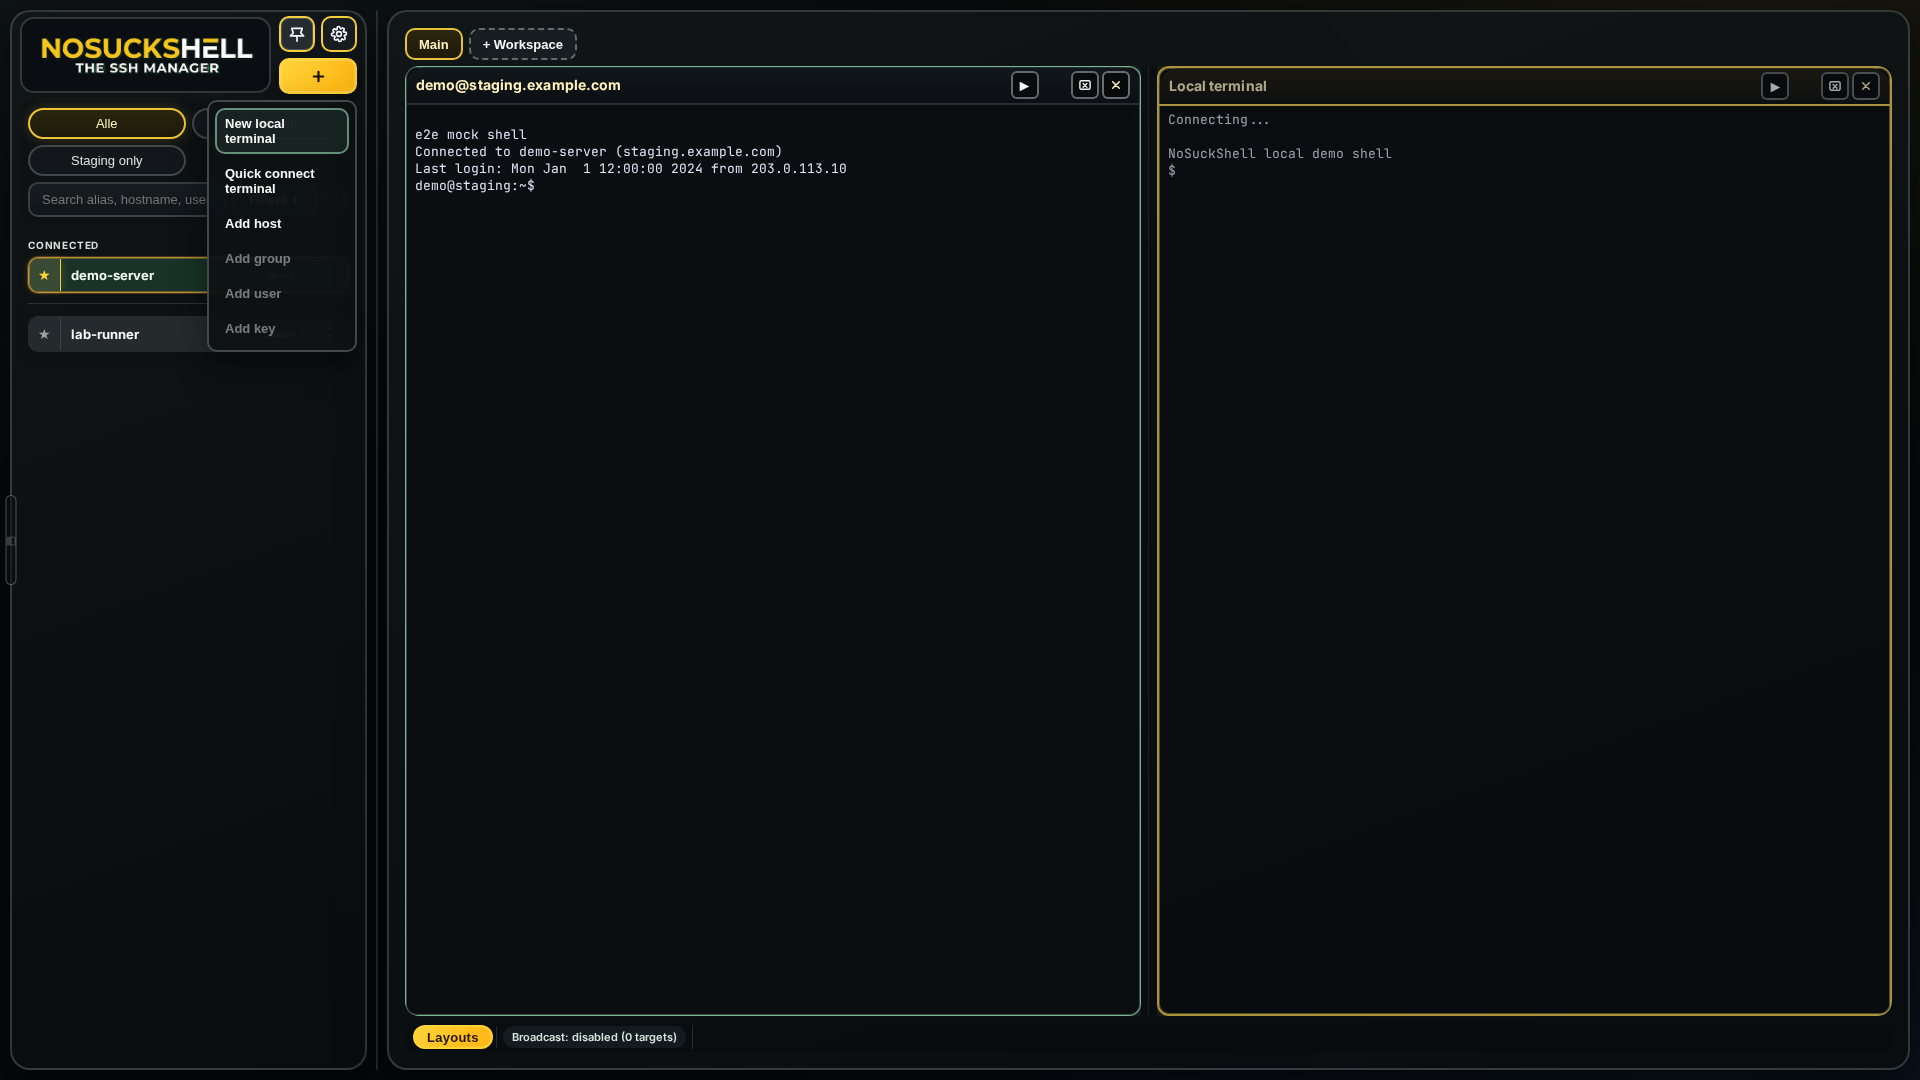
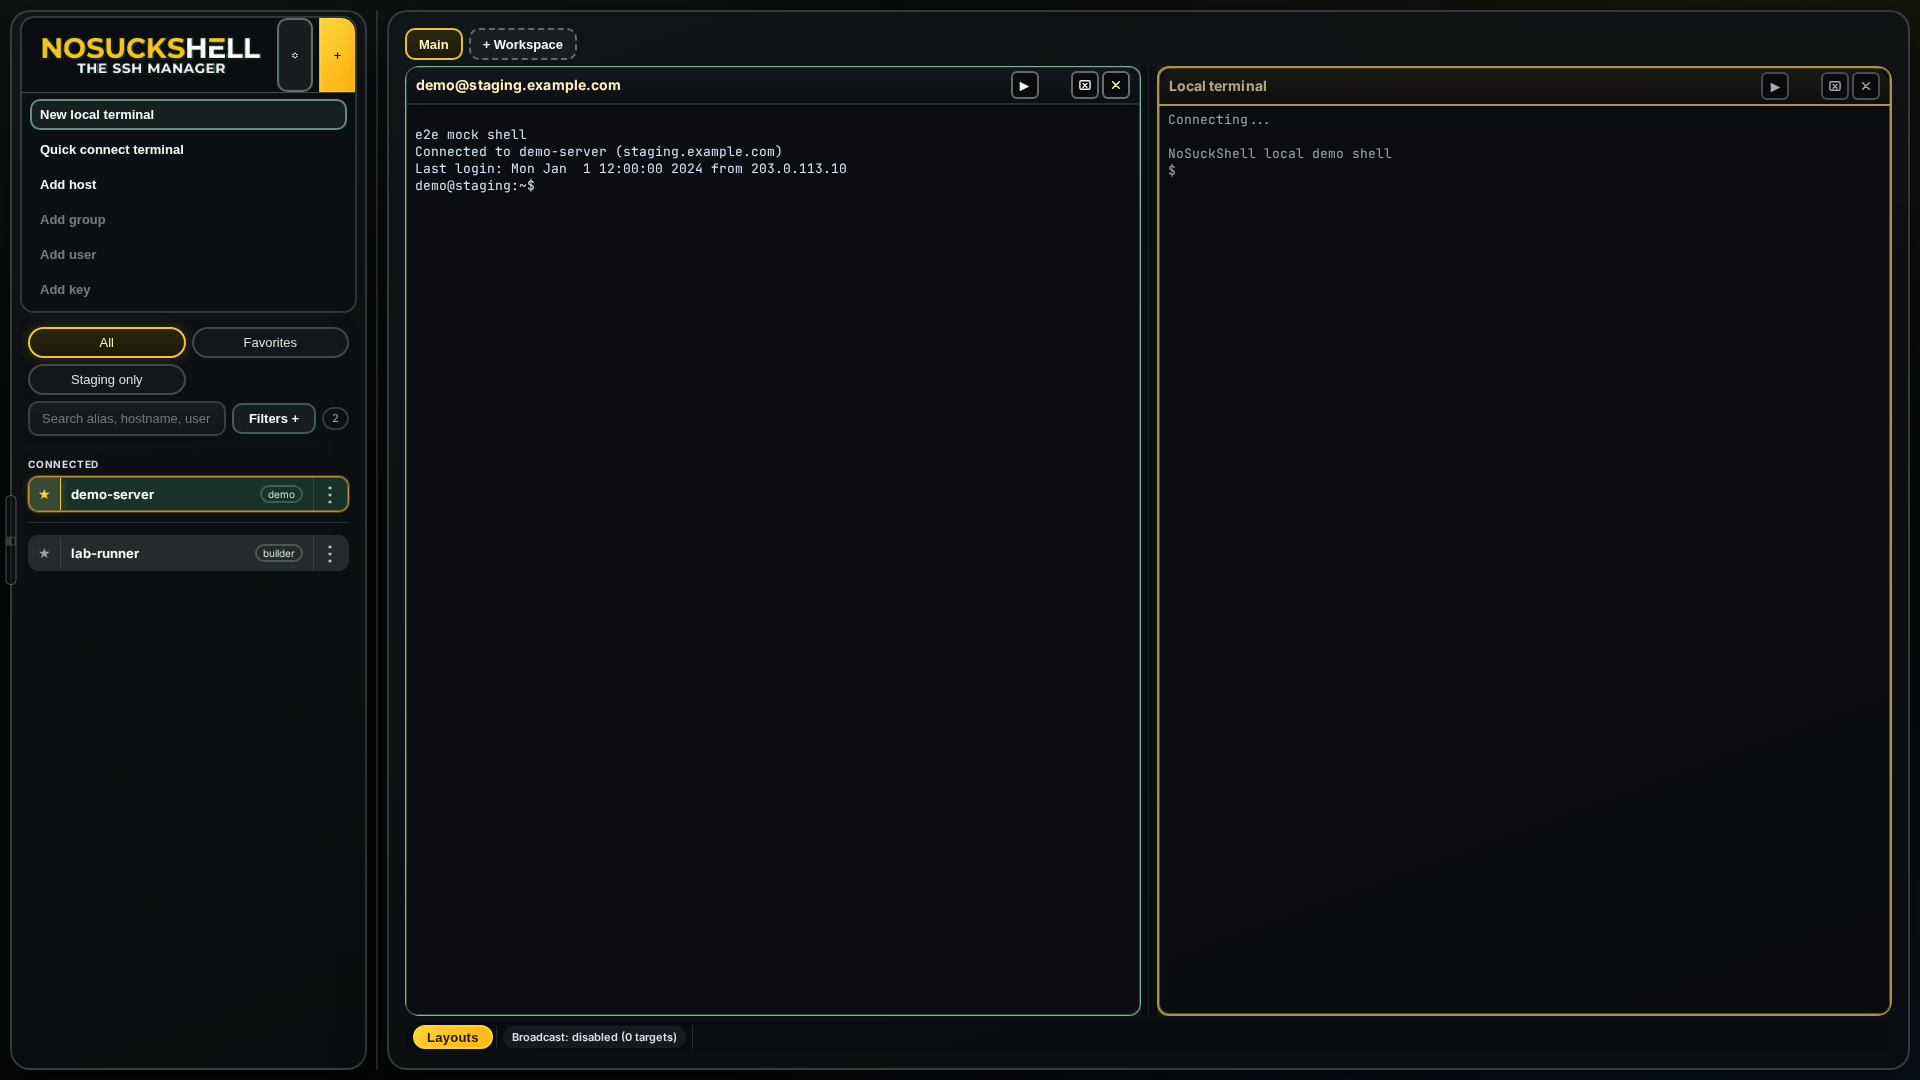
refactor: update app settings button and layout structure
- Replaced the quick add button with an app settings button in the toolbar.
- Introduced a new layout structure for the brand toolbar, enhancing the organization of buttons.
- Updated styles for the new button and layout to improve visual consistency and user experience.

Changed region(s): [[0.0, 0.0, 0.1875, 0.3972], [0.0, 0.4278, 0.1875, 0.55]]

diff --git a/apps/desktop/src/App.tsx b/apps/desktop/src/App.tsx
@@ -4412,17 +4412,33 @@ export function App() {
               <img src={logoTextTransparent} alt="NoSuckShell logo" className="brand-logo" />
             </div>
             <div className="brand-add-column">
-              <div className="quick-add-wrap brand-quick-add-wrap brand-primary-add-wrap">
+              <div className="brand-primary-add-wrap brand-toolbar-cluster">
                 <button
-                  className="btn host-plus-btn"
-                  aria-label="Open add menu"
-                  title="Add host"
-                  onClick={() => setIsQuickAddMenuOpen((prev) => !prev)}
+                  type="button"
+                  className="btn brand-app-settings-btn"
+                  aria-label="Open app settings"
+                  title="App settings"
+                  onClick={() => setIsAppSettingsOpen(true)}
                 >
                   <svg className="add-icon-svg" viewBox="0 0 24 24" aria-hidden="true">
-                    <path d="M12 6v12M6 12h12" />
+                    <path
+                      fill="currentColor"
+                      d="M12 15.5A3.5 3.5 0 0 1 8.5 12 3.5 3.5 0 0 1 12 8.5a3.5 3.5 0 0 1 3.5 3.5 3.5 3.5 0 0 1-3.5 3.5m7.43-2.53c.04-.32.07-.64.07-.97s-.03-.66-.07-1l2.11-1.63c.19-.15.24-.42.12-.64l-2-3.46c-.12-.22-.39-.31-.61-.22l-2.49 1c-.52-.39-1.06-.72-1.68-.97l-.38-2.65A.51.51 0 0 0 14 2h-4c-.25 0-.46.18-.49.42l-.38 2.65c-.61.25-1.17.58-1.68.97l-2.49-1c-.23-.09-.49 0-.61.22l-2 3.46c-.13.22-.07.49.12.64l2.11 1.63c-.04.34-.07.67-.07.98s.03.66.07.97l-2.11 1.63c-.19.15-.24.42-.12.64l2 3.46c.12.22.39.3.61.22l2.49-1.01c.52.4 1.06.74 1.68.97l.38 2.65c.03.24.24.43.5.43h4c.25 0 .46-.18.49-.42l.38-2.65c.62-.24 1.16-.57 1.68-.97l2.49 1c.22.08.49 0 .61-.22l2-3.46c.12-.22.07-.49-.12-.64l-2.11-1.63z"
+                    />
                   </svg>
                 </button>
+                <div className="quick-add-wrap brand-quick-add-wrap brand-primary-add-inner">
+                  <button
+                    className="btn host-plus-btn"
+                    aria-label="Open add menu"
+                    title="Add host"
+                    onClick={() => setIsQuickAddMenuOpen((prev) => !prev)}
+                  >
+                    <svg className="add-icon-svg" viewBox="0 0 24 24" aria-hidden="true">
+                      <path d="M12 6v12M6 12h12" />
+                    </svg>
+                  </button>
+                </div>
               </div>
             </div>
             {isQuickAddMenuOpen && (

diff --git a/apps/desktop/src/styles.css b/apps/desktop/src/styles.css
@@ -577,7 +577,54 @@ body,
   height: 100%;
 }
 
-.brand-primary-add-wrap .host-plus-btn {
+.brand-toolbar-cluster {
+  flex: 1 1 auto;
+  display: flex;
+  flex-direction: row;
+  align-items: stretch;
+  gap: var(--space-2);
+  min-height: 0;
+  height: 100%;
+}
+
+.brand-primary-add-inner {
+  flex: 1 1 auto;
+  min-width: 0;
+  min-height: 0;
+  position: relative;
+}
+
+.brand-app-settings-btn {
+  flex: 0 0 auto;
+  width: var(--control-height-lg);
+  min-width: var(--control-height-lg);
+  align-self: stretch;
+  min-height: var(--control-height-lg);
+  padding: 0;
+  line-height: 0;
+  display: inline-flex;
+  align-items: center;
+  justify-content: center;
+  border-color: rgba(150, 170, 161, 0.45);
+  background: rgba(16, 22, 26, 0.78);
+  color: #d4e2db;
+  box-shadow: inset 0 0 0 1px rgba(255, 255, 255, 0.04);
+}
+
+.brand-app-settings-btn:hover {
+  border-color: rgba(130, 184, 152, 0.55);
+  background: rgba(20, 28, 33, 0.88);
+  color: #e8f4ee;
+}
+
+.brand-app-settings-btn:focus-visible,
+.brand-app-settings-btn:active {
+  border-color: rgba(255, 212, 59, 0.75);
+  box-shadow: inset 0 0 0 1px rgba(255, 255, 255, 0.08);
+}
+
+.brand-primary-add-wrap .host-plus-btn,
+.brand-primary-add-inner .host-plus-btn {
   width: var(--control-height-lg);
   min-width: var(--control-height-lg);
   flex: 1 1 auto;
